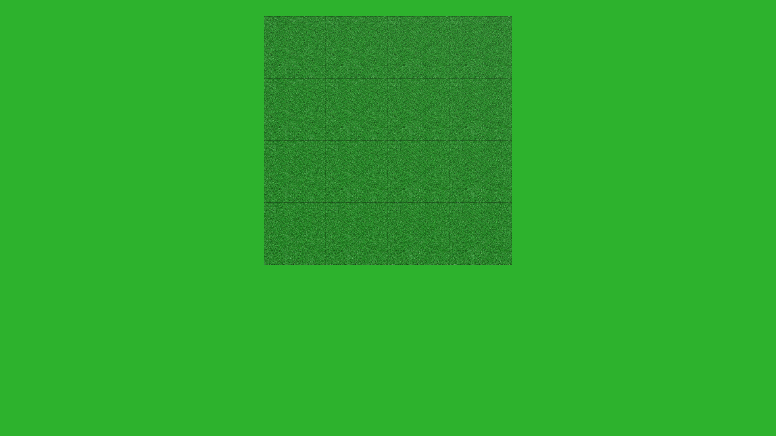
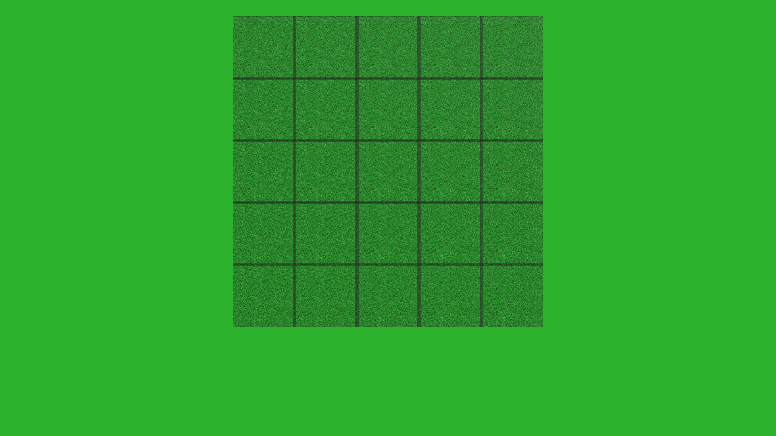
Grid outline done

Changed region(s): [[0.2784, 0.0298, 0.7113, 0.7752]]

diff --git a/Assets/Scripts/Game Manager.cs b/Assets/Scripts/Game Manager.cs
@@ -38,29 +38,13 @@ public class GameManager : MonoBehaviour
         RoadOrientations = new Dictionary<Vector2, int>();
         Grids = new List<GameObject>();
 
-        if (PlayerPrefs.HasKey("SavePath"))
-        {
-            SavePath = PlayerPrefs.GetString("SavePath");
-            Debug.Log("Save path loaded: " + SavePath);
-        }
-
         // Create preset rotations for the 3D Tile Object
         InstantiateRoadRotations();
 
         // If theres a level load it, if not create one
-        
-        if (File.Exists(SavePath))
-        {
-            LoadLevel();
-        }
-        else
-        {
-            this.LevelName = PlayerPrefs.GetString("levelName");
-            this.Width = int.Parse(PlayerPrefs.GetString("levelWidth"));
-            this.Height = int.Parse(PlayerPrefs.GetString("levelHeight"));
-            GenerateGrid();
-        }
+        CheckExistingLevel();
 
+        // Generate the outline for the grid
         GenerateGridOutline();
     }
 
@@ -181,6 +165,116 @@ public class GameManager : MonoBehaviour
         byte[] byteArray = renderedTexture.EncodeToPNG();
         System.IO.File.WriteAllBytes(imageSavePath + "/Thumbnails/" + this.LevelName + ".png", byteArray);
     }
+
+    #endregion
+
+    #region Instantiates
+
+    private void CheckExistingLevel()
+    {
+        if (PlayerPrefs.HasKey("SavePath"))
+        {
+            SavePath = PlayerPrefs.GetString("SavePath");
+            Debug.Log("Save path loaded: " + SavePath);
+        }
+
+        if (File.Exists(SavePath))
+        {
+            LoadLevel();
+        }
+        else
+        {
+            this.LevelName = PlayerPrefs.GetString("levelName");
+            this.Width = int.Parse(PlayerPrefs.GetString("levelWidth"));
+            this.Height = int.Parse(PlayerPrefs.GetString("levelHeight"));
+            GenerateGrid();
+        }
+    }
+
+    private void InstantiateRoadRotations()
+    {
+        RoadRotations = new Dictionary<int, Vector3>();
+
+        // Zero Roads
+        RoadRotations.Add(1, new Vector3(90, 0, 0));
+
+        // One Road
+        RoadRotations.Add(15, new Vector3(90, 0, 0));
+        RoadRotations.Add(3, new Vector3(90, 0, 0));
+        RoadRotations.Add(5, new Vector3(90, 0, 0));
+
+        RoadRotations.Add(8, new Vector3(90, 0, 90));
+        RoadRotations.Add(2, new Vector3(90, 0, 90));
+        RoadRotations.Add(4, new Vector3(90, 0, 90));
+
+        // Two Roads
+        RoadRotations.Add(6, new Vector3(90, 270, 0));
+        RoadRotations.Add(12, new Vector3(90, 270, -90));
+        RoadRotations.Add(20, new Vector3(90, 270, -180));
+        RoadRotations.Add(10, new Vector3(90, 270, -270));
+
+        // Three Roads
+        RoadRotations.Add(30, new Vector3(90, 180, 0));
+        RoadRotations.Add(24, new Vector3(90, 180, -90));
+        RoadRotations.Add(60, new Vector3(90, 180, -180));
+        RoadRotations.Add(40, new Vector3(90, 180, -270));
+
+        // Four Roads
+        RoadRotations.Add(120, new Vector3(0, 90, 0));
+
+    }
+
+    private void GenerateGrid()
+    {
+        // Generates grid of grass tile
+        int listIndex = 0;
+        for (int y = 0; y < this.Height; y++)
+        {
+
+            for (int x = 0; x < this.Width; x++)
+            {
+                Tiles.Add(Instantiate(tilePrefab, new Vector3(x, -y, 0), Quaternion.identity));
+
+                Tiles[listIndex].name = $"{x},{y}";
+                RoadOrientations.Add(new Vector2(x, y), 0);
+
+                listIndex++;
+            }
+        }
+        levelViewTransform.transform.position = new Vector3((float)Width / 2 - 0.5f, -2.75f, -10);
+    }
+
+    private void GenerateGridOutline()
+    {
+        int vertLines = this.Width - 1;
+        int horiLines = this.Height - 1;
+
+        float verticalOffSet = 0;
+        float horizontalOffSet = 0;
+
+        if (this.Height % 2 == 0)
+            verticalOffSet = 0.5f;
+
+        if (this.Width % 2 == 0)
+            horizontalOffSet = 0.5f;
+
+        for (int x = 0; x < vertLines; x++)
+        {
+            GameObject grid = Instantiate(GridPrefab, new Vector3(0.5f + x, verticalOffSet - (this.Height / 2), -1.0f), Quaternion.identity);
+            grid.transform.localScale = new Vector3(0.05f, this.Height);
+
+            Grids.Add(grid);
+        }
+
+        for (int y = 0; y < horiLines; y++)
+        {
+            GameObject grid = Instantiate(GridPrefab, new Vector3(-(horizontalOffSet - (this.Width / 2)), -(0.5f + y), -1.0f), Quaternion.identity);
+            grid.transform.localScale = new Vector3(this.Width, 0.05f);
+
+            Grids.Add(grid);
+        }
+    }
+
 
     #endregion
 
@@ -364,87 +458,4 @@ public class GameManager : MonoBehaviour
 
     #endregion
 
-    private void InstantiateRoadRotations()
-    {
-        RoadRotations = new Dictionary<int, Vector3>();
-
-        // Zero Roads
-        RoadRotations.Add(1, new Vector3(90, 0, 0));
-
-        // One Road
-        RoadRotations.Add(15, new Vector3(90, 0, 0));
-        RoadRotations.Add(3, new Vector3(90, 0, 0));
-        RoadRotations.Add(5, new Vector3(90, 0, 0));
-
-        RoadRotations.Add(8, new Vector3(90, 0, 90));
-        RoadRotations.Add(2, new Vector3(90, 0, 90));
-        RoadRotations.Add(4, new Vector3(90, 0, 90));
-
-        // Two Roads
-        RoadRotations.Add(6, new Vector3(90, 270, 0));
-        RoadRotations.Add(12, new Vector3(90, 270, -90));
-        RoadRotations.Add(20, new Vector3(90, 270, -180));
-        RoadRotations.Add(10, new Vector3(90, 270, -270));
-
-        // Three Roads
-        RoadRotations.Add(30, new Vector3(90, 180, 0));
-        RoadRotations.Add(24, new Vector3(90, 180, -90));
-        RoadRotations.Add(60, new Vector3(90, 180, -180));
-        RoadRotations.Add(40, new Vector3(90, 180, -270));
-
-        // Four Roads
-        RoadRotations.Add(120, new Vector3(0, 90, 0));
-
-    }
-
-    private void GenerateGrid()
-    {
-        // Generates grid of grass tile
-        int listIndex = 0;
-        for (int y = 0; y < this.Height; y++)
-        {
-
-            for (int x = 0; x < this.Width; x++)
-            {
-                Tiles.Add(Instantiate(tilePrefab, new Vector3(x, -y, 0), Quaternion.identity));
-
-                Tiles[listIndex].name = $"{x},{y}";
-                RoadOrientations.Add(new Vector2(x, y), 0);
-
-                listIndex++;
-            }
-        }
-        levelViewTransform.transform.position = new Vector3((float)Width / 2 - 0.5f, -2.75f, -10);
-    }
-
-    private void GenerateGridOutline()
-    {
-        int vertLines = this.Width - 1;
-        int horiLines = this.Height - 1;
-
-        float verticalOffSet = 0;
-        float horizontalOffSet = 0;
-
-        if (this.Height % 2 == 0)
-            verticalOffSet = 0.5f;
-
-        if (this.Height % 2 == 0)
-            horizontalOffSet = 0.5f;
-
-        for (int x = 0; x < vertLines; x++)
-        {
-            GameObject grid = Instantiate(GridPrefab, new Vector3(0.5f + x, verticalOffSet - (this.Height / 2), -1.0f), Quaternion.identity);
-            grid.transform.localScale = new Vector3(0.05f, this.Height);
-
-            Grids.Add(grid);
-        }
-
-        for (int y = 0; y < horiLines; y++)
-        {
-            GameObject grid = Instantiate(GridPrefab, new Vector3(0.5f + y, horizontalOffSet - (this.Width / 2), -1.0f), Quaternion.identity);
-            grid.transform.localScale = new Vector3(this.Width, 0.05f);
-
-            Grids.Add(grid);
-        }
-    }
 }
